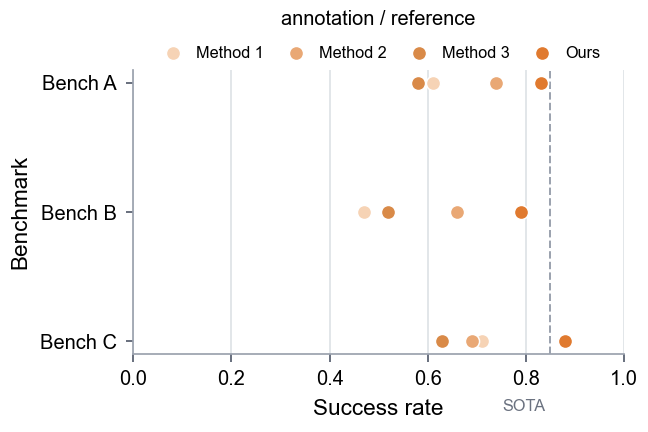
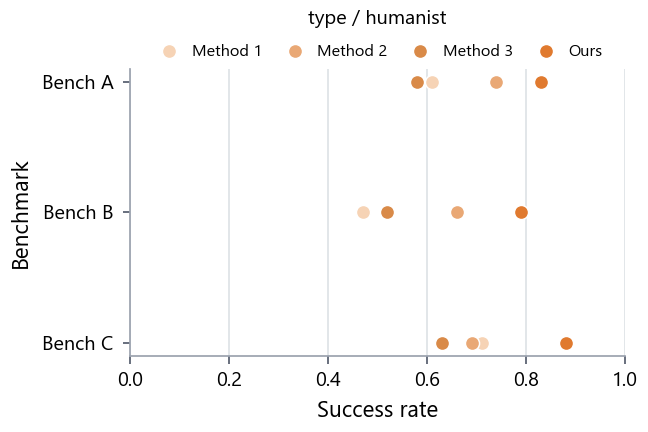
docs(variants): expand dot coverage to 17 panels with grid

diff --git a/research-figure-skill/examples/chart-variants/render_dot_sheet.py b/research-figure-skill/examples/chart-variants/render_dot_sheet.py
@@ -43,9 +43,10 @@ def load():
 
 
 def draw(rows, groups, *, colors, title, font="sans", tick=8, axis_width=.7,
-         marker=32, grid=True, errorbar=False, reference=None, bold=False):
+         marker=32, grid=True, errorbar=False, reference=None, bold=False,
+         figsize=(3.6, 2.4)):
     plt.rcParams["font.family"] = matplotlib.font_manager.FontProperties(fname=FONTS[font]).get_name()
-    fig, ax = plt.subplots(figsize=(3.6, 2.4), dpi=180)
+    fig, ax = plt.subplots(figsize=figsize, dpi=180)
     fig.patch.set_facecolor("white")
     ax.set_facecolor("white")
     y = {g: i for i, g in enumerate(groups)}
@@ -76,7 +77,8 @@ def draw(rows, groups, *, colors, title, font="sans", tick=8, axis_width=.7,
         ax.spines[side].set_color("#9CA3AF")
         ax.spines[side].set_linewidth(axis_width)
     if grid:
-        ax.grid(True, axis="x", color="#D9DEE3", linewidth=.6, zorder=0)
+        ax.grid(True, axis="x", color="#D9DEE3", linewidth=.6,
+                linestyle="--" if grid == "dashed" else "-", zorder=0)
         ax.set_axisbelow(True)
     ax.legend(frameon=False, fontsize=6.5, loc="lower center", bbox_to_anchor=(.5, 1.01),
               ncol=4, handletextpad=.4, columnspacing=1.0, borderaxespad=0)
@@ -96,10 +98,18 @@ def main():
                                     tick=10, axis_width=1.2, marker=46, grid=False, bold=True)),
         ("style / minimal-mono", dict(colors=D_ORANGE, title="style / minimal-mono",
                                       tick=7, axis_width=.4, marker=26, grid=False)),
+        ("style / serif-emphasis", dict(colors=D_ORANGE, title="style / serif-emphasis",
+                                        font="serif", grid="dashed")),
+        ("type / sans", dict(colors=D_ORANGE, title="type / sans", font="sans")),
         ("type / serif", dict(colors=D_ORANGE, title="type / serif", font="serif")),
+        ("type / humanist", dict(colors=D_ORANGE, title="type / humanist", font="humanist")),
         ("type / mono", dict(colors=D_ORANGE, title="type / mono", font="mono")),
         ("annotation / errorbar", dict(colors=D_ORANGE, title="annotation / errorbar", errorbar=True)),
         ("annotation / reference", dict(colors=D_ORANGE, title="annotation / reference", reference=.85)),
+        ("grid / hairline", dict(colors=D_ORANGE, title="grid / hairline", grid=True)),
+        ("grid / dashed", dict(colors=D_ORANGE, title="grid / dashed", grid="dashed")),
+        ("size / single", dict(colors=D_ORANGE, title="size / single", figsize=(3.6, 2.4))),
+        ("size / double", dict(colors=D_ORANGE, title="size / double", figsize=(5.0, 3.3))),
     ]
     OUT.mkdir(parents=True, exist_ok=True)
     panels = []
@@ -117,7 +127,7 @@ def main():
     draw_ctx = ImageDraw.Draw(sheet)
     draw_ctx.text((24, 18), "dot plot / axis coverage", fill="#20252c",
                   font=ImageFont.truetype(LABEL_FONT, 30))
-    draw_ctx.text((24, 50), "each panel changes one axis; grouped-bar has 9 recipes, this has 10 panels",
+    draw_ctx.text((24, 50), f"each panel changes one axis; grouped-bar has 9 recipes, this has {len(specs)} panels",
                   fill="#57606c", font=ImageFont.truetype(LABEL_FONT, 14))
     for i, (path, label) in enumerate(panels):
         x = 20 + (i % cols) * cell_w

diff --git a/research-figure-skill/docs/AXIS_COVERAGE.md b/research-figure-skill/docs/AXIS_COVERAGE.md
@@ -4,13 +4,14 @@
 
 原则：**每个 chart 按轴覆盖，而不是拍脑袋挑几个变量**。
 
-用户优先级修正（2026-10-19）：
+用户优先级修正（2026-10-19，第二版）：
 
 - 颜色结构：重要，必做。
-- 风格 / 字体：重要，各做 2 个对比，不做 15×15。
+- 风格 / 字体：重要；全局各扩到 **20 个**，每个 chart 的 sheet 用 6–8 个代表，完整 20 个放在全局 style/type 表。
 - 标注：保留。
-- 网格：**低优先，可不做**；不再强制每个 chart 做 grid panel。
-- 每 chart 目标从 7–14 收敛到 **9–11 个 panel**。
+- 网格：**加回来，必做**。
+- 每 chart 目标：**12–18 个 panel**，不是 5 个，也不是 150 个。
+- **允许新增 chart-specific 轴**；删掉不适用的轴后，要补上这个图真正需要的轴。
 
 ## 1. 先分两类轴
 
@@ -18,14 +19,14 @@
 
 这些轴对所有 chart 都适用，已经有独立 reference 表：
 
-- `style`：15 个
-- `type`：15 个
+- `style`：全局 **20 个**（当前 15，补 5 个）
+- `type`：全局 **20 个**（当前 15，补 5 个）
 - `accent` / `categorical` / `paired` / `color_pairing`：全局色板
 - `grid`：全局网格策略
 - `size`：4 个物理尺寸
 - `panel_gap` / `bar_spacing`：布局级
 
-它们不进入每个 chart 的 variant 列表；否则 16 charts × 15 styles 会爆炸。
+它们不进入每个 chart 的全量列表；每个 chart 只取 6–8 个代表，完整 20 个放在全局 style/type 表。
 
 ### 每 chart 轴（需要按 chart 覆盖）
 
@@ -36,7 +37,25 @@
 3. **annotation**：reference / errorbar / bracket / delta / trend / ellipse / operating point
 4. **layout**：vertical / horizontal / paired / multi-panel（只选适用的）
 5. **size**：single / medium / double / slide（选 2–3 个代表）
-6. **style/type contrast**：1–2 个对比，不重复 15 个
+6. **style/type contrast**：6–8 个代表，不重复 20 个
+
+### Chart-specific 轴（新增）
+
+删掉不适用的轴后，要补上这个图真正需要的轴。它们不是“额外装饰”，而是该图的语义维度：
+
+| chart | 新增轴 |
+|---|---|
+| scatter | `trend`（趋势）、`confidence-ellipse`（置信椭圆）、`density`（密度） |
+| box | `raw-points`（原始点）、`significance-bracket`（显著性括号） |
+| violin | `raw-points`、`split`（分组半小提琴） |
+| line-band | `uncertainty`（CI/分位带）、`trend` |
+| heatmap | `cell-labels`、`colorbar`、`clustering` |
+| roc / pr | `operating-point`、`auc-label`、`baseline` |
+| calibration | `bin-count`、`reliability-band` |
+| surface | `view-angle`、`contour-projection`、`colorbar` |
+| grouped-bar | `capacity`、`increment`、`delta`、`significance-bracket` |
+
+这些轴进入 `examples/chart-review/<chart>/` 的 sheet，不写进全局 `axes.json` 的 13 轴。
 
 ## 2. 覆盖规则
 
@@ -48,7 +67,7 @@
 
 ## 3. 每 chart 目标
 
-> 下表里的 grid 列是候选；按最新优先级，grid 可以不做。实际先按 9–11 panels 控制。
+> grid 已加回；每 chart 目标 **12–18 panels**，style/type 各取 6–8 个代表。下表是早期估算，按新目标会略增。
 
 | chart | color | grid | annotation | layout | size | style/type | 目标 panels |
 |---|---|---|---|---|---|---|---|

diff --git a/research-figure-skill/examples/chart-variants/README.md b/research-figure-skill/examples/chart-variants/README.md
@@ -4,22 +4,19 @@
 
 ## dot-plot
 
-`dot-plot.png` 有 10 个 panel：
+`dot-plot.png` 有 17 个 panel：
 
 | 轴 | panel |
 |---|---|
 | canonical | focus-tints |
-| color | focus-neutral |
-| color | focus-multi |
-| color | multi-hue |
-| style | bold-slide |
-| style | minimal-mono |
-| type | serif |
-| type | mono |
-| annotation | errorbar |
-| annotation | reference |
+| color | focus-neutral / focus-multi / multi-hue |
+| style | bold-slide / minimal-mono / serif-emphasis |
+| type | sans / serif / humanist / mono |
+| annotation | errorbar / reference |
+| grid | hairline / dashed |
+| size | single / double |
 
-没有做 grid，因为 grid 优先级低；style/type 只做 2 个对比，不做 15×15。
+没有新增 chart-specific 轴（dot-plot 本身没有额外语义轴）；grid 已加回；style/type 各取 4 个代表，不重复 20 个。
 
 生成：
 
